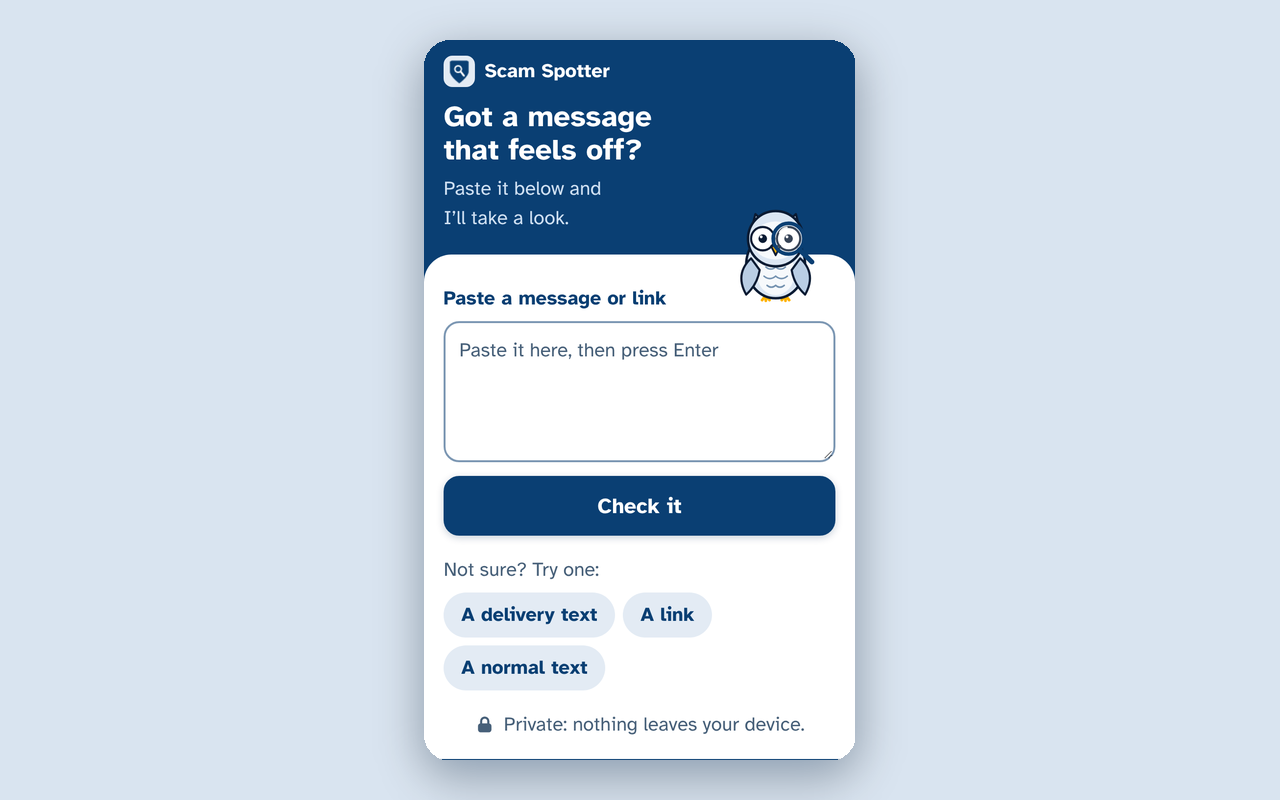
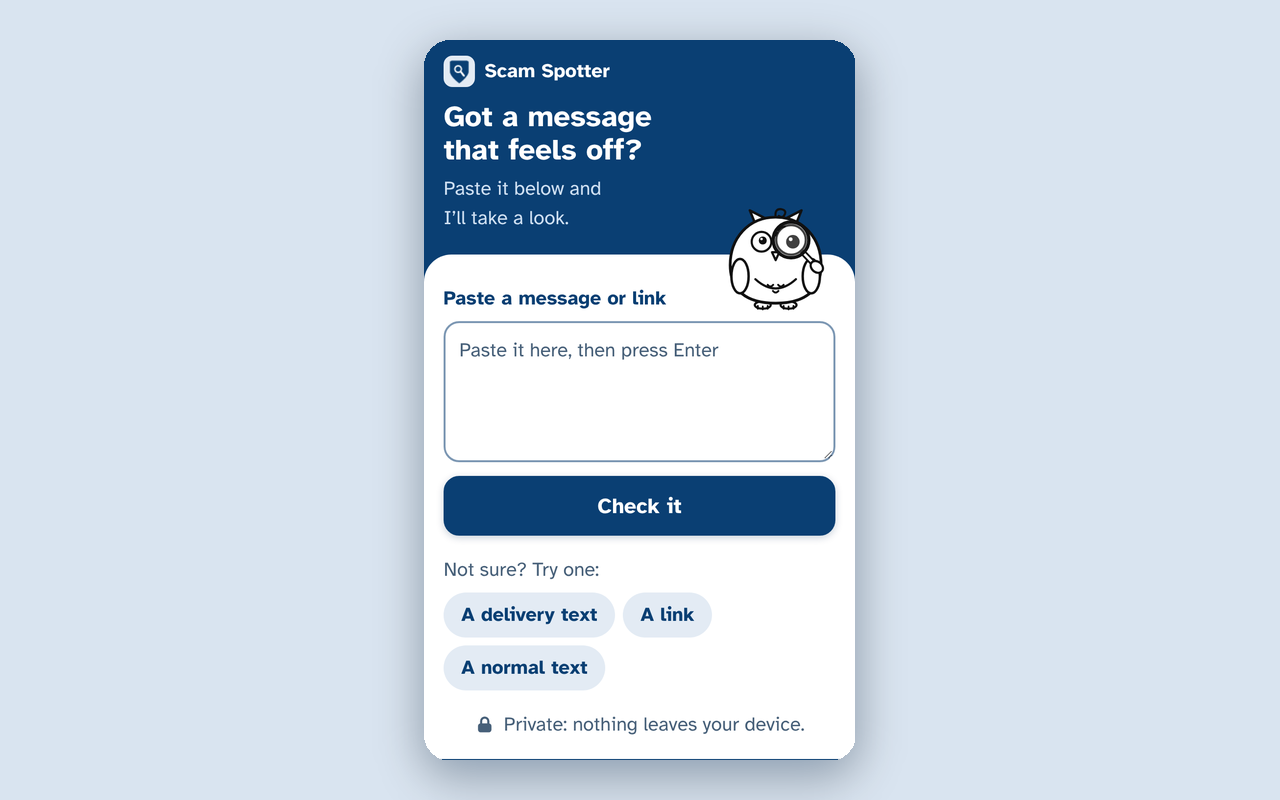
Redraw the owl: chubby, black outline, funnier
A round potato of an owl in black outline (white body) like the cartoon
scammers, with one giant eye magnified by its glass, stubby paddle wings and
tiny feet. Five moods: idle, scan (eyes sweep), scam (arms flung up, tiny
pupils, bangs), careful (raised eyebrow, wobbly mouth, question mark) and
okay (a wave and happy eyes). New store screenshots; zip and README updated.

Claude-Session: https://claude.ai/code/session_01L1RR9fWHJuEr6c3zXvjMtu

Changed region(s): [[0.5625, 0.25, 0.6562, 0.4062]]

diff --git a/ui.js b/ui.js
@@ -58,59 +58,80 @@ const ScamUI = (function () {
   //   okay    – happy eyes and a wave
   // ---------------------------------------------------------------------
   function owlMarkup(mood) {
-    var O = { ink: "#0b1b33", navy: "#0a3f73", body: "#dbe6f3", wing: "#b9cde4", belly: "#f6f9fc", beak: "#ffb300" };
-    function o(w) { return ' stroke="' + O.ink + '" stroke-width="' + (w || 7) + '" stroke-linejoin="round" stroke-linecap="round"'; }
-    var tilt = mood === "careful" ? -9 : 0;
+    // Black outline on white, like the cartoon scammers: a chubby round owl with one
+    // giant eye (magnified by its glass), tiny feet, and a face for every mood.
+    var K = "#111111", W = "#ffffff";
+    function ln(w) { return ' stroke="' + K + '" stroke-width="' + (w || 8) + '" stroke-linejoin="round" stroke-linecap="round"'; }
+    var scam = mood === "scam", careful = mood === "careful", okay = mood === "okay", scan = mood === "scan";
     var s = '<svg viewBox="-70 -40 440 400" aria-hidden="true">';
 
-    // feet, body, belly feathers
-    s += '<g stroke="' + O.beak + '" stroke-width="9" stroke-linecap="round" fill="none"><path d="M118 306 l-12 16 M118 306 v18 M118 306 l12 16"/><path d="M182 306 l-12 16 M182 306 v18 M182 306 l12 16"/></g>';
-    s += '<ellipse cx="150" cy="208" rx="96" ry="108" fill="' + O.body + '"' + o(8) + '/><ellipse cx="150" cy="232" rx="62" ry="74" fill="' + O.belly + '"/>';
-    s += '<g fill="none" stroke="' + O.navy + '" stroke-width="5" stroke-linecap="round" opacity=".55"><path d="M118 214 q16 14 32 0 q16 14 32 0"/><path d="M112 244 q19 16 38 0 q19 16 38 0"/><path d="M122 274 q14 12 28 0 q14 12 28 0"/></g>';
+    // tiny stubby feet and ear tufts (behind the body)
+    s += '<ellipse cx="108" cy="338" rx="26" ry="12" fill="' + W + '"' + ln(7) + '/><ellipse cx="192" cy="338" rx="26" ry="12" fill="' + W + '"' + ln(7) + '/>';
+    s += '<path d="M92 341 v9 M108 343 v9 M124 341 v9 M176 341 v9 M192 343 v9 M208 341 v9" fill="none"' + ln(6) + '/>';
+    s += '<path d="M90 90 L66 30 L136 66 Z" fill="' + W + '"' + ln() + '/><path d="M210 90 L234 30 L164 66 Z" fill="' + W + '"' + ln() + '/>';
 
-    // wings: down, raised (alarm), or waving (okay)
-    var la = mood === "scam" ? 100 : 0;
-    var ra = mood === "scam" ? -100 : (mood === "okay" ? -125 : 0);
-    s += '<path d="M70 186 Q16 236 54 304 Q90 272 98 224 Z" fill="' + O.wing + '"' + o() + ' transform="rotate(' + la + ' 74 196)"/>';
-    s += '<path d="M230 186 Q284 236 246 304 Q210 272 202 224 Z" fill="' + O.wing + '"' + o() + ' transform="rotate(' + ra + ' 226 196)"/>';
+    // the big round body, with a belly and a few feather scallops
+    s += '<path d="M150 52 C240 52 298 122 298 208 C298 290 246 332 150 332 C54 332 2 290 2 208 C2 122 60 52 150 52 Z" fill="' + W + '"' + ln(9) + '/>';
+    s += '<path d="M84 254 Q150 314 216 254" fill="none"' + ln(7) + '/><path d="M124 272 q9 11 18 0 M158 272 q9 11 18 0 M141 292 q9 11 18 0" fill="none"' + ln(6) + '/>';
 
-    // head (tilts when unsure)
-    s += '<g transform="rotate(' + tilt + ' 150 130)">';
-    s += '<path d="M66 112 L84 42 L130 84 Z" fill="' + O.body + '"' + o() + '/><path d="M234 112 L216 42 L170 84 Z" fill="' + O.body + '"' + o() + '/>';
-    s += '<circle cx="150" cy="122" r="90" fill="' + O.body + '"' + o(8) + '/><ellipse cx="150" cy="128" rx="76" ry="62" fill="' + O.belly + '"/>';
+    // stubby wings: down, both raised (alarm), or one waving (okay)
+    var wl = scam ? ' transform="rotate(118 40 190)"' : (okay ? ' transform="rotate(135 40 190)"' : "");
+    var wr = scam ? ' transform="rotate(-118 260 190)"' : "";
+    s += '<ellipse cx="34" cy="244" rx="28" ry="56" fill="' + W + '"' + ln() + wl + '/>';
+    s += '<ellipse cx="266" cy="244" rx="28" ry="56" fill="' + W + '"' + ln() + wr + '/>';
 
-    if (mood === "okay") {
-      s += '<path d="M82 128 Q112 94 142 128" fill="none"' + o(9) + '/><path d="M158 128 Q188 94 218 128" fill="none"' + o(9) + '/>';
-      s += '<circle cx="86" cy="152" r="11" fill="#f4a3a3" opacity=".7"/><circle cx="214" cy="152" r="11" fill="#f4a3a3" opacity=".7"/>';
+    // a stray curl of feather
+    s += '<path d="M150 52 Q146 24 168 26 Q188 30 178 46 Q172 56 160 48" fill="none"' + ln(7) + '/>';
+
+    // ---- the face (tilts when unsure) ----
+    s += '<g transform="rotate(' + (careful ? -8 : 0) + ' 150 170)">';
+    if (okay) {
+      // happy closed eyes
+      s += '<path d="M72 138 Q104 98 136 138" fill="none"' + ln(10) + '/><path d="M158 132 Q200 80 242 132" fill="none"' + ln(10) + '/>';
+      s += '<circle cx="62" cy="176" r="13" fill="none"' + ln(6) + '/><circle cx="238" cy="176" r="13" fill="none"' + ln(6) + '/>';
     } else {
-      s += '<circle cx="108" cy="122" r="38" fill="#fff"' + o(7) + '/><circle cx="192" cy="122" r="38" fill="#fff"' + o(7) + '/>';
-      var r = mood === "scam" ? 9 : 14;
-      var px = mood === "careful" ? 10 : 0;
-      var py = mood === "careful" ? 4 : 0;
-      s += '<g class="pupils"><circle cx="' + (108 + px) + '" cy="' + (122 + py) + '" r="' + r + '" fill="' + O.ink + '"/><circle cx="' + (192 + px) + '" cy="' + (122 + py) + '" r="' + r + '" fill="' + O.ink + '"/>';
-      s += '<circle cx="' + (103 + px) + '" cy="' + (116 + py) + '" r="4.5" fill="#fff"/><circle cx="' + (187 + px) + '" cy="' + (116 + py) + '" r="4.5" fill="#fff"/></g>';
-      if (mood === "scam") s += '<path d="M70 76 L132 94 M230 76 L168 94" stroke="' + O.ink + '" stroke-width="9" stroke-linecap="round"/>';
-      if (mood === "careful") s += '<path d="M72 80 Q104 60 136 84" fill="none"' + o(8) + '/><path d="M164 88 L228 88" fill="none"' + o(8) + '/>';
+      s += '<circle cx="104" cy="132" r="32" fill="' + W + '"' + ln(7) + '/><circle cx="200" cy="126" r="48" fill="' + W + '"' + ln(7) + '/>';
+      var lx = 108, ly = 128, rx = 206, ry = 132, lr = 13, rr = 22;        // a lazy, slightly cross-eyed stare
+      if (scam) { lx = 104; ly = 132; rx = 200; ry = 126; lr = 7; rr = 9; }  // tiny shocked pupils
+      if (careful) { lx = 118; ly = 138; rx = 218; ry = 138; }              // side-eye
+      s += '<g class="pupils"><circle cx="' + lx + '" cy="' + ly + '" r="' + lr + '" fill="' + K + '"/><circle cx="' + rx + '" cy="' + ry + '" r="' + rr + '" fill="' + K + '"/>';
+      s += '<circle cx="' + (lx - 4) + '" cy="' + (ly - 5) + '" r="4" fill="' + W + '"/><circle cx="' + (rx - 7) + '" cy="' + (ry - 8) + '" r="6" fill="' + W + '"/></g>';
+      if (scam) s += '<path d="M64 88 L128 108" fill="none"' + ln(10) + '/><path d="M268 58 L192 78" fill="none"' + ln(10) + '/>';
+      if (careful) s += '<path d="M66 86 Q104 58 142 82" fill="none"' + ln(9) + '/>';
     }
-    s += '<path d="M135 146 L165 146 L150 176 Z" fill="' + O.beak + '"' + o(6) + '/>';
 
-    // the magnifying glass over one eye: the owl's signature
-    s += '<circle cx="192" cy="122" r="50" fill="#fff" fill-opacity=".18" stroke="' + O.navy + '" stroke-width="12"/>';
-    s += '<path d="M228 158 L268 198" stroke="' + O.navy + '" stroke-width="16" stroke-linecap="round"/>';
-    s += '<path d="M164 102 Q172 88 186 86" fill="none" stroke="#fff" stroke-width="7" stroke-linecap="round" opacity=".9"/>';
+    // beak and mouth
+    if (scam) {
+      s += '<path d="M130 164 L170 164 L150 212 Z" fill="' + K + '"' + ln(7) + '/><path d="M138 166 L162 166 L150 184 Z" fill="' + W + '"/>';
+    } else if (okay) {
+      s += '<path d="M138 166 L162 166 L150 190 Z" fill="' + W + '"' + ln(7) + '/><path d="M108 198 Q150 244 192 198" fill="none"' + ln(8) + '/>';
+    } else if (careful) {
+      s += '<path d="M140 168 L162 168 L154 190 Z" fill="' + W + '"' + ln(7) + '/><path d="M112 210 q10 -9 20 0 t20 0 t20 0 t20 0" fill="none"' + ln(6) + '/>';
+    } else {
+      s += '<path d="M138 166 L162 166 L150 192 Z" fill="' + W + '"' + ln(7) + '/>';
+    }
+
+    // the magnifying glass over the giant eye
+    s += '<path d="M240 168 L278 208" fill="none" stroke="' + K + '" stroke-width="20" stroke-linecap="round"/><path d="M240 168 L278 208" fill="none" stroke="' + W + '" stroke-width="8" stroke-linecap="round"/>';
+    s += '<circle cx="200" cy="126" r="58" fill="' + W + '" fill-opacity=".2" stroke="' + K + '" stroke-width="11"/>';
+    s += '<path d="M158 96 q8 -12 22 -14 M150 112 q2 -6 6 -10" fill="none"' + ln(6) + '/>';
     s += '</g>';
+    if (!scam && !okay) s += '<ellipse cx="284" cy="214" rx="22" ry="17" fill="' + W + '"' + ln(7) + ' transform="rotate(40 284 214)"/>';   // the wing gripping the handle
 
-    // little marks that show the mood
-    if (mood === "scam") {
-      s += '<g fill="#d50000"' + o(5) + '><rect x="138" y="-34" width="24" height="46" rx="10"/><circle cx="150" cy="30" r="13"/></g>';
-      s += '<g stroke="#d50000" stroke-width="7" stroke-linecap="round"><path d="M40 40 l-22 -14 M52 14 l-12 -22 M260 40 l22 -14 M248 14 l12 -22"/></g>';
+    // marks that show the mood
+    var drop = function (x, y) { return '<path d="M' + x + ' ' + y + ' Q' + (x + 18) + ' ' + (y + 30) + ' ' + x + ' ' + (y + 46) + ' Q' + (x - 18) + ' ' + (y + 30) + ' ' + x + ' ' + y + ' Z" fill="' + W + '"' + ln(6) + '/>'; };
+    var bang = function (x) { return '<rect x="' + (x - 10) + '" y="-30" width="20" height="38" rx="9" fill="' + K + '"/><circle cx="' + x + '" cy="30" r="10" fill="' + K + '"/>'; };
+    if (scam) {
+      s += bang(-34) + bang(334);
+      s += '<path d="M36 52 L14 34 M54 28 L42 4 M264 28 L276 4 M284 52 L306 34" fill="none"' + ln(7) + '/>';
     }
-    if (mood === "careful") {
-      s += '<g transform="translate(244 6)"><path d="M0 18 Q0 -6 22 -6 Q44 -6 44 14 Q44 28 26 36 Q22 40 22 52" fill="none" stroke="' + O.ink + '" stroke-width="18" stroke-linecap="round"/><path d="M0 18 Q0 -6 22 -6 Q44 -6 44 14 Q44 28 26 36 Q22 40 22 52" fill="none" stroke="#ffb300" stroke-width="8" stroke-linecap="round"/><circle cx="22" cy="72" r="10" fill="#ffb300"' + o(4) + '/></g>';
+    if (careful) {
+      s += drop(318, 120);
+      s += '<g transform="translate(306 -14)"><path d="M0 24 Q0 -6 26 -6 Q52 -6 52 18 Q52 36 30 44 Q26 48 26 62" fill="none"' + ln(14) + '/><circle cx="26" cy="86" r="11" fill="' + K + '"/></g>';
     }
-    if (mood === "okay") {
-      var star = function (x, y, rr) { return '<path d="M' + x + ' ' + (y - rr) + ' Q' + x + ' ' + y + ' ' + (x + rr) + ' ' + y + ' Q' + x + ' ' + y + ' ' + x + ' ' + (y + rr) + ' Q' + x + ' ' + y + ' ' + (x - rr) + ' ' + y + ' Q' + x + ' ' + y + ' ' + x + ' ' + (y - rr) + ' Z" fill="#7ed957"/>'; };
-      s += star(36, 36, 24) + star(268, 20, 18) + star(284, 96, 12);
+    if (okay) {
+      var star = function (x, y, r) { return '<path d="M' + x + ' ' + (y - r) + ' Q' + x + ' ' + y + ' ' + (x + r) + ' ' + y + ' Q' + x + ' ' + y + ' ' + x + ' ' + (y + r) + ' Q' + x + ' ' + y + ' ' + (x - r) + ' ' + y + ' Q' + x + ' ' + y + ' ' + x + ' ' + (y - r) + ' Z" fill="' + K + '"/>'; };
+      s += star(-22, 40, 26) + star(322, 4, 20) + star(342, 96, 13);
     }
     return s + '</svg>';
   }

diff --git a/README.md b/README.md
@@ -102,7 +102,7 @@ When the flag fires, the phrases in `marks` light up inside the person's message
 
 - **The name:** change `APP_NAME` at the top of `ui.js`, and `"name"` in `manifest.json`.
 - **Colors:** they are named "slots" at the top of `styles.css` (a light set and a dark set). Change them there.
-- **The owl:** it is drawn in code in `ui.js` (`owlMarkup`). It has five moods: idle, scan, scam, careful and okay.
+- **The owl:** a chubby black-outline owl drawn in code in `ui.js` (`owlMarkup`), with a giant eye magnified by its magnifying glass. It has five moods: idle, scan, scam (arms flung up, tiny pupils), careful (one eyebrow up, wobbly mouth) and okay (a wave).
 
 ## Known limitations (Version 1)
 
